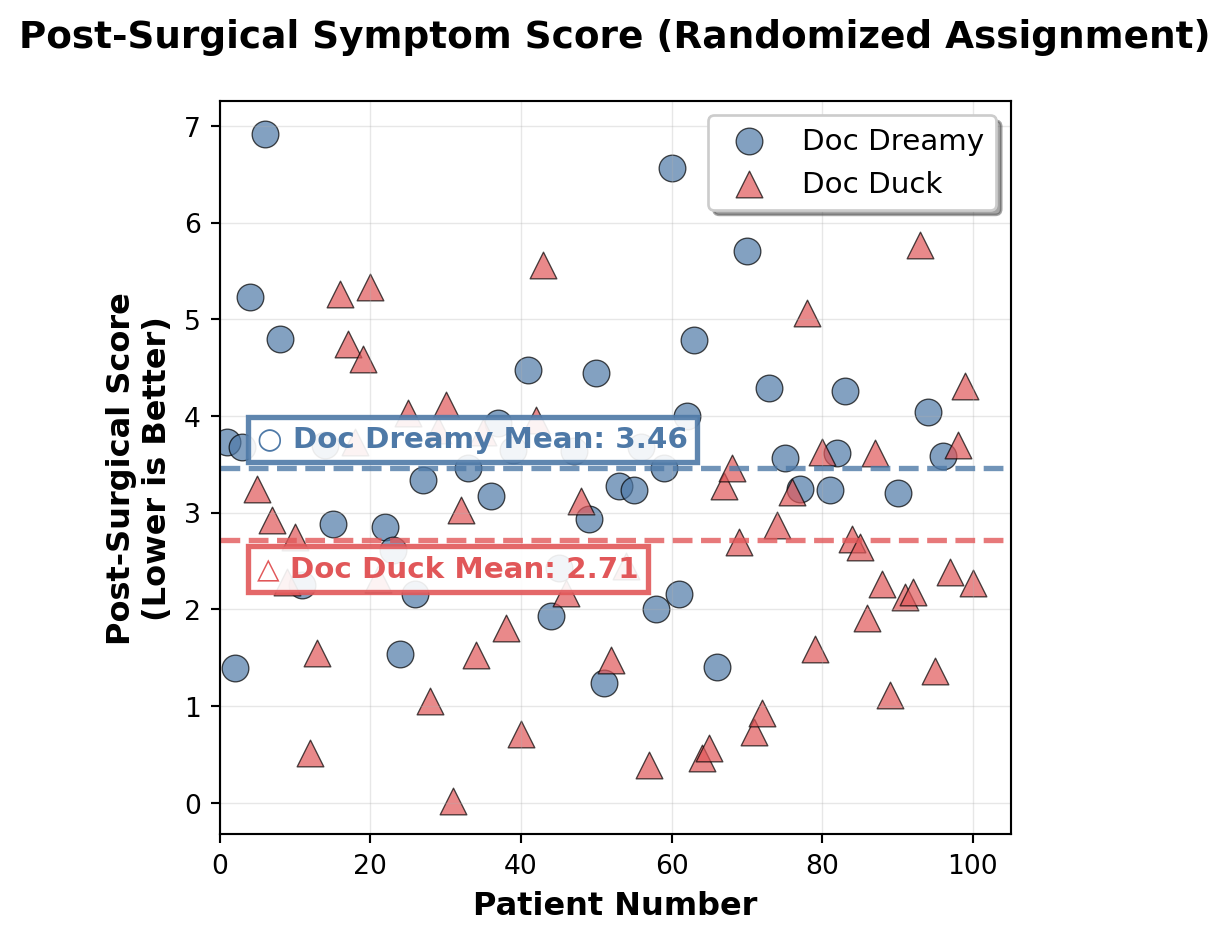
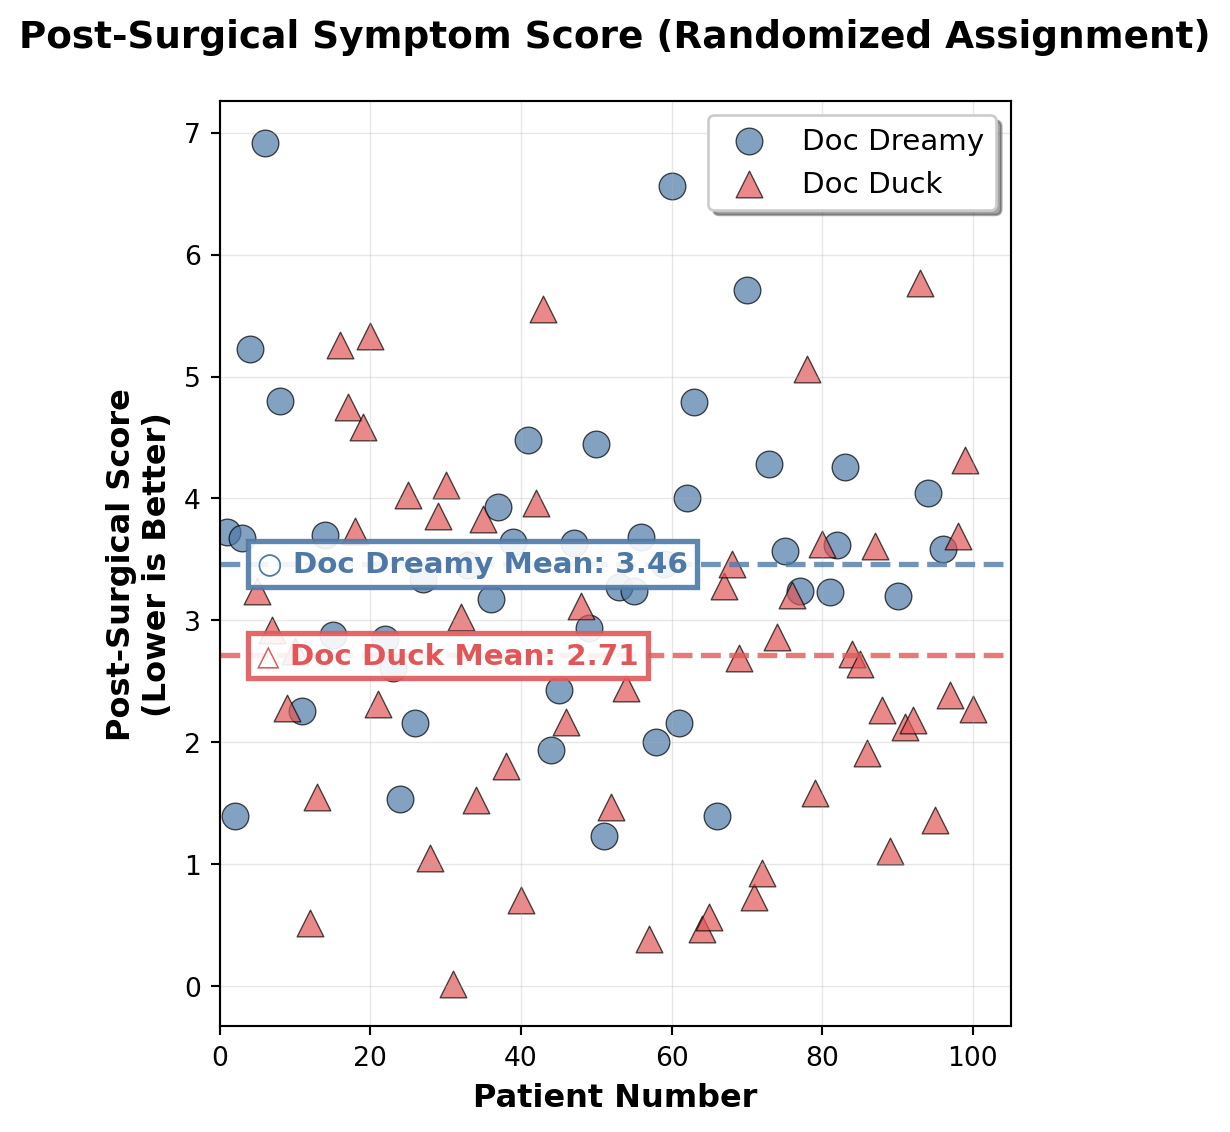
Update analysis and render HTML output

diff --git a/index.html b/index.html
@@ -212,7 +212,7 @@ window.Quarto = {
 <div id="fig-plot-outcomes" class="quarto-float quarto-figure quarto-figure-center anchored">
 <figure class="quarto-float quarto-float-fig figure">
 <div aria-describedby="fig-plot-outcomes-caption-0ceaefa1-69ba-4598-a22c-09a6ac19f8ca">
-<img src="index_files/figure-html/fig-plot-outcomes-output-1.png" width="855" height="566" class="figure-img">
+<img src="index_files/figure-html/fig-plot-outcomes-output-1.png" width="759" height="566" class="figure-img">
 </div>
 <figcaption class="quarto-float-caption-bottom quarto-float-caption quarto-float-fig" id="fig-plot-outcomes-caption-0ceaefa1-69ba-4598-a22c-09a6ac19f8ca">
 Figure&nbsp;1: Post-Surgical Symptom Score (lower is better) - Observed Data
@@ -367,7 +367,7 @@ Figure&nbsp;4: DAG Model Explaining Surgical Outcomes
 <div id="fig-plot-outcomes-randomized" class="quarto-float quarto-figure quarto-figure-center anchored">
 <figure class="quarto-float quarto-float-fig figure">
 <div aria-describedby="fig-plot-outcomes-randomized-caption-0ceaefa1-69ba-4598-a22c-09a6ac19f8ca">
-<img src="index_files/figure-html/fig-plot-outcomes-randomized-output-1.png" width="615" height="470" class="figure-img">
+<img src="index_files/figure-html/fig-plot-outcomes-randomized-output-1.png" width="615" height="566" class="figure-img">
 </div>
 <figcaption class="quarto-float-caption-bottom quarto-float-caption quarto-float-fig" id="fig-plot-outcomes-randomized-caption-0ceaefa1-69ba-4598-a22c-09a6ac19f8ca">
 Figure&nbsp;5: Post-Surgical Symptom Score (lower is better) for randomized patients.
@@ -386,7 +386,7 @@ Figure&nbsp;5: Post-Surgical Symptom Score (lower is better) for randomized pati
 <div id="fig-plot-outcomes-severity" class="quarto-float quarto-figure quarto-figure-center anchored">
 <figure class="quarto-float quarto-float-fig figure">
 <div aria-describedby="fig-plot-outcomes-severity-caption-0ceaefa1-69ba-4598-a22c-09a6ac19f8ca">
-<img src="index_files/figure-html/fig-plot-outcomes-severity-output-1.png" width="827" height="758" class="figure-img">
+<img src="index_files/figure-html/fig-plot-outcomes-severity-output-1.png" width="745" height="758" class="figure-img">
 </div>
 <figcaption class="quarto-float-caption-bottom quarto-float-caption quarto-float-fig" id="fig-plot-outcomes-severity-caption-0ceaefa1-69ba-4598-a22c-09a6ac19f8ca">
 Figure&nbsp;6: Post-Surgical Symptom Score (lower is better) by Patient and Severity
